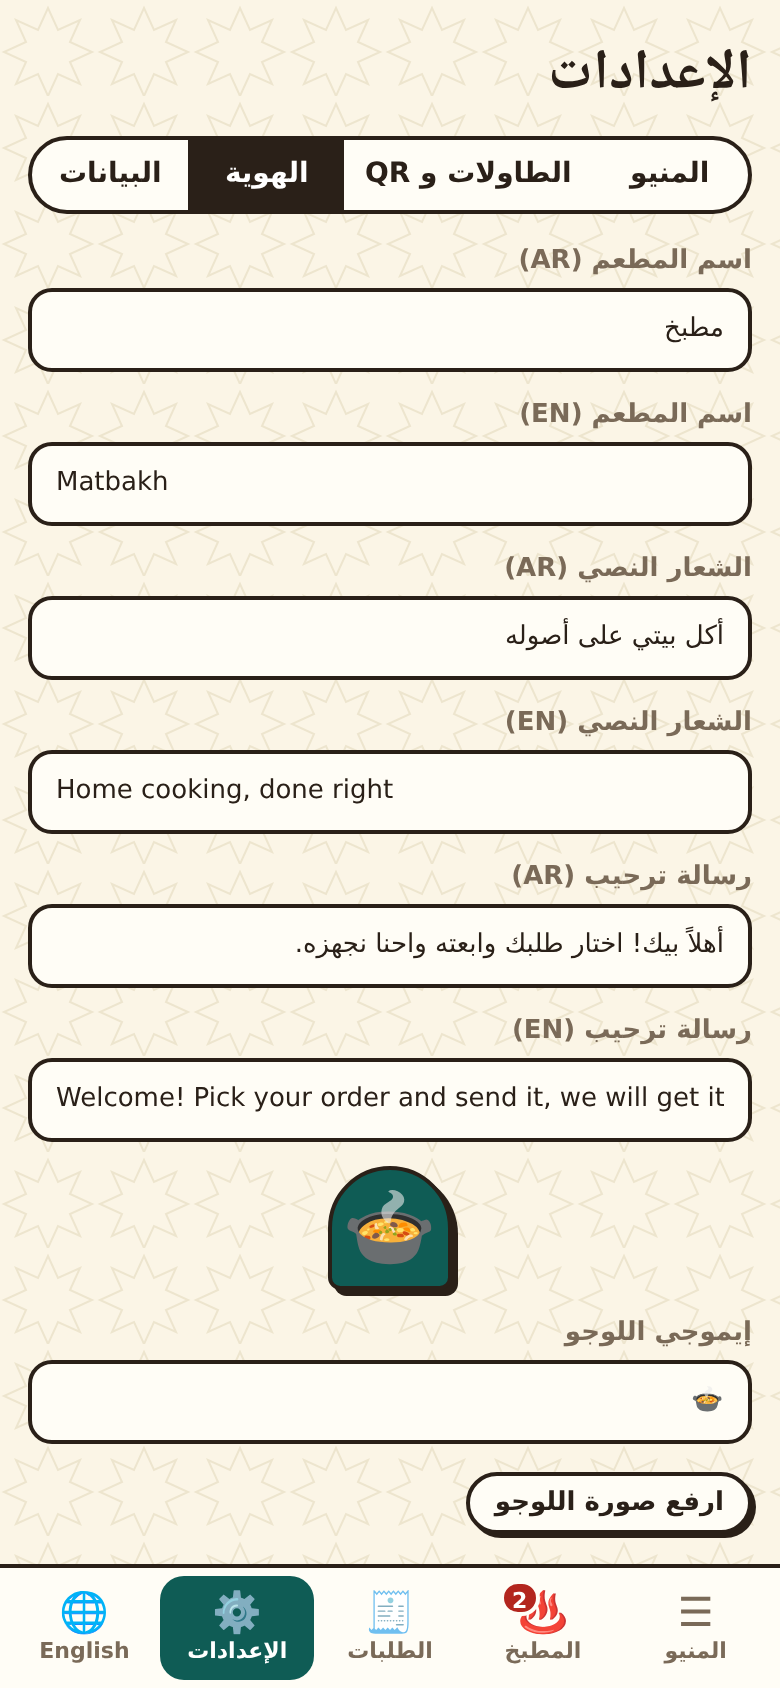
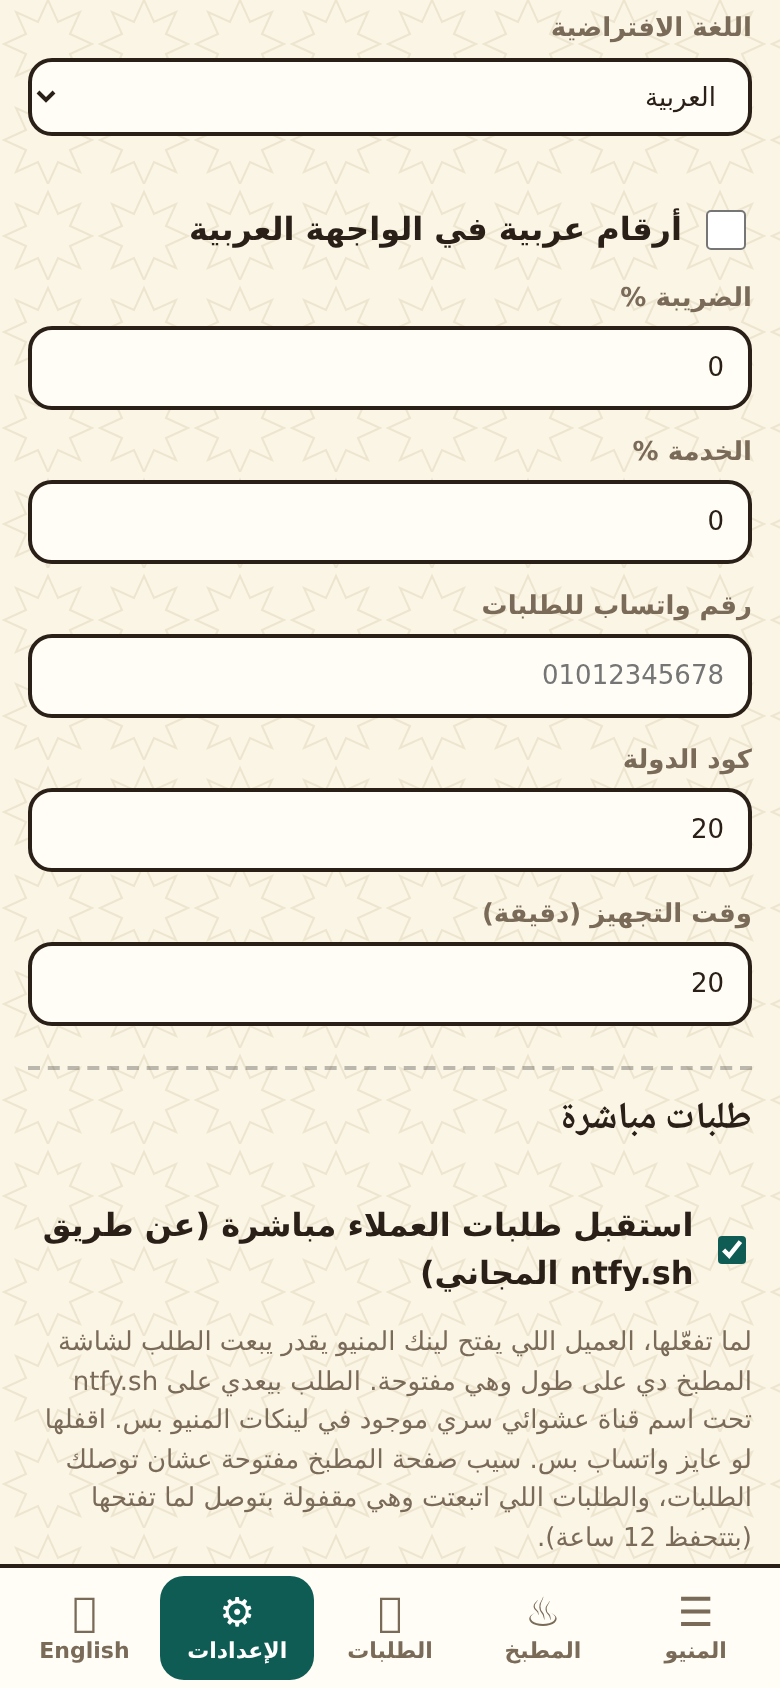
Live customer orders through ntfy.sh (optional, private topic), kitchen subscription, live e2e test, README

diff --git a/js/app.js b/js/app.js
@@ -202,6 +202,27 @@
       });
     } catch (e) { /* audio blocked */ }
   }
+  /* live orders from customers' phones through ntfy.sh (optional, owner device only) */
+  let es = null, esTopic = '', liveOk = false;
+  function liveIngest(text) {
+    try {
+      const d = C.decodeOrder(text);
+      if (d.origin && S.orders.some((o) => o.origin === d.origin)) return;
+      const o = Object.assign(d, { id: C.uid('o'), no: 0, status: 'new', updatedAt: Date.now() });
+      addOwnerOrder(o); beep(); toast(t('liveReceived')); applyChrome(); render(true);
+    } catch (e) { /* not an order */ }
+  }
+  function liveSync() {
+    const topic = guest ? '' : (S.brand.liveTopic || '');
+    if (topic === esTopic) return;
+    if (es) { es.close(); es = null; }
+    esTopic = topic; liveOk = false;
+    if (!topic || typeof EventSource === 'undefined') return;
+    es = new EventSource(C.liveUrl(topic, '/sse?since=12h'));
+    es.onopen = () => { liveOk = true; };
+    es.onerror = () => { liveOk = false; };
+    es.onmessage = (m) => { try { const d = JSON.parse(m.data); if (d.event === 'message' && d.message) liveIngest(d.message); } catch (e) { /* ignore */ } };
+  }
   window.addEventListener('storage', (e) => {
     if (guest || e.key !== KEY) return;
     const before = S.orders.filter((o) => o.status === 'new').length;
@@ -322,6 +343,21 @@
     const form2 = () => ({ type: f.type, table: C.str(f.table, 6), name: C.str(f.name, 40), phone: C.str(f.phone, 20), note: C.str(f.note, 200) });
     const actions = h('div', { class: 'actions' });
     if (guest) {
+      if (brand().liveTopic) actions.append(btn('♨ ' + t('sendLive'), async (ev) => {
+        const e = validate(); if (e) { err.textContent = e; return; }
+        const o = buildOrder(form2()); o.no = 0; o.createdAt = Date.now();
+        const text = C.orderText(o, brand(), lang(), brand().arabicDigits);
+        const num = C.normalizePhone(brand().whatsapp, brand().countryCode);
+        err.textContent = ''; ev.currentTarget.disabled = true;
+        try {
+          const code = C.encodeOrder(o);
+          if (code.length > 3800) throw new Error('too big');
+          const r = await fetch(C.liveUrl(brand().liveTopic), { method: 'POST', body: code });
+          if (!r.ok) throw new Error('http ' + r.status);
+        } catch (x) { err.textContent = t('liveFailed'); ev.currentTarget.disabled = false; return; }
+        lastOrder = { order: o, text, wa: num ? C.waLink(num, text) : '', live: true };
+        cart = []; saveCart(); go('done');
+      }, 'primary wide'));
       actions.append(btn('💬 ' + t('sendWhatsApp'), () => {
         const e = validate(); if (e) { err.textContent = e; return; }
         const num = C.normalizePhone(brand().whatsapp, brand().countryCode);
@@ -348,15 +384,16 @@
     const wrap = h('div', { class: 'done' });
     if (!lastOrder) { go('menu'); return wrap; }
     const o = lastOrder.order;
-    wrap.append(h('div', { class: 'stamp' }, '✓'), h('h1', null, guest ? t('orderSent') : t('orderSavedKitchen')));
+    wrap.append(h('div', { class: 'stamp' }, '✓'), h('h1', null, guest ? (lastOrder.live ? t('liveSent') : t('orderSent')) : t('orderSavedKitchen')));
     if (!guest) wrap.append(h('p', { class: 'bigno' }, t('orderNo') + ' #' + nf(o.no)));
-    wrap.append(h('p', { class: 'muted' }, guest ? t('waOpened') : (o.type === 'table' ? t('table') + ' ' + nf(o.table) : t('pickup') + ' · ' + nf(brand().pickupMinutes) + ' ' + t('min'))));
+    wrap.append(h('p', { class: 'muted' }, guest ? (lastOrder.live ? t('liveNote') : t('waOpened')) : (o.type === 'table' ? t('table') + ' ' + nf(o.table) : t('pickup') + ' · ' + nf(brand().pickupMinutes) + ' ' + t('min'))));
     wrap.append(h('div', { class: 'receipt-mini' }, o.lines.map((l) => h('div', null, h('span', null, nf(l.qty) + ' × ' + C.lineName(l, lang())), h('span', null, money(l.price * l.qty)))), h('div', { class: 'grand' }, h('span', null, t('total')), h('span', null, money(o.totals.total)))));
     const acts = h('div', { class: 'actions' });
     if (guest) {
-      acts.append(btn('💬 ' + t('sendWhatsApp'), () => window.open(lastOrder.wa, '_blank', 'noopener'), 'primary'),
+      if (lastOrder.wa) acts.append(btn('💬 ' + t('sendWhatsApp'), () => window.open(lastOrder.wa, '_blank', 'noopener'), lastOrder.live ? 'ghost' : 'primary'));
+      acts.append(
         btn(t('copyText'), () => { (navigator.clipboard ? navigator.clipboard.writeText(lastOrder.text) : Promise.reject()).then(() => toast(t('copied')), () => toast(lastOrder.text)); }, 'ghost'));
-      wrap.append(h('pre', { class: 'wa-text' }, lastOrder.text));
+      if (!lastOrder.live) wrap.append(h('pre', { class: 'wa-text' }, lastOrder.text));
     } else {
       const ph = C.normalizePhone(o.phone, brand().countryCode);
       if (ph) acts.append(btn('💬 ' + t('whatsappCustomer'), () => window.open(C.waLink(ph, C.confirmText(o, brand(), lang())), '_blank', 'noopener'), 'ghost'));
@@ -418,6 +455,7 @@
       h('h2', null, t(k), h('b', null, nf(by(st).length))),
       by(st).length ? by(st).map(ticket) : h('p', { class: 'k-none' }, t('none'))))));
     wrap.append(h('p', { class: 'hint' }, t('sync')));
+    if (S.brand.liveTopic) wrap.append(h('p', { class: 'hint', 'data-live': liveOk ? 'on' : 'down' }, (liveOk ? '● ' + t('liveStatusOn') : '○ ' + t('liveStatusDown'))));
     return wrap;
   }
 
@@ -618,6 +656,10 @@
         fld(t('whatsapp'), h('input', { inputmode: 'tel', value: b.whatsapp, placeholder: '01012345678', maxlength: 20, onchange: (e) => { b.whatsapp = C.str(e.target.value, 20); live(); } })),
         fld(t('countryCode'), h('input', { inputmode: 'numeric', value: b.countryCode, maxlength: 5, onchange: (e) => { b.countryCode = C.str(e.target.value, 5).replace(/\D/g, '') || '20'; live(); } }))),
       fld(t('pickupMinutes'), h('input', { inputmode: 'numeric', value: b.pickupMinutes, onchange: (e) => { b.pickupMinutes = Math.round(C.num(e.target.value, 0, 240, 20)); live(); } }))));
+    pane.append(h('div', { class: 'livebox' }, h('h3', null, t('liveTitle')),
+      h('label', { class: 'chk' }, h('input', { type: 'checkbox', checked: !!b.liveTopic, onchange: (e) => { b.liveTopic = e.target.checked ? C.newTopic() : ''; live(); liveSync(); render(true); } }), t('liveOn')),
+      h('p', { class: 'hint' }, t('liveHelp')),
+      b.liveTopic ? h('p', { class: 'hint' }, t('liveShareAgain')) : null));
   }
 
   function studioData(pane) {
@@ -677,5 +719,6 @@
   document.addEventListener('keydown', (e) => { if (e.key === 'Escape') { const d = document.querySelector('dialog[open]'); if (d) d.querySelector('.x').click(); } });
   window.__mb = { get state() { return S; }, get guest() { return guest; } }; // read-only debug handle used by the browser tests
   onRoute();
+  liveSync();
   if ('serviceWorker' in navigator && location.protocol === 'https:') navigator.serviceWorker.register('sw.js').catch(() => {});
 })();

diff --git a/tests/live.js b/tests/live.js
@@ -1,0 +1,52 @@
+/* Live relay check: owner turns on live orders, a customer phone sends an order, the kitchen receives it.
+   Usage: node tests/live.js [baseUrl]. Needs internet (ntfy.sh) and puppeteer-core. */
+const path = require('path');
+const puppeteer = require(process.env.PUPPETEER_PATH || 'puppeteer-core');
+const serve = require('./serve.js');
+const sleep = (ms) => new Promise((r) => setTimeout(r, ms));
+(async () => {
+  let srv, base = process.argv[2];
+  if (!base) { srv = await serve(path.join(__dirname, '..')); base = 'http://localhost:' + srv.address().port + '/'; }
+  if (!base.endsWith('/')) base += '/';
+  const browser = await puppeteer.launch({ executablePath: process.env.CHROME || '/usr/bin/google-chrome', args: ['--no-sandbox'], headless: 'new' });
+  let bad = 0; const ok = (c, n) => { console.log((c ? '  ok   ' : '  FAIL ') + n); if (!c) bad++; };
+  const errors = [];
+  const owner = await (await browser.createBrowserContext()).newPage(); await owner.setViewport({ width: 390, height: 844 });
+  owner.on('pageerror', (e) => errors.push(e.message));
+  await owner.evaluateOnNewDocument(() => { window.open = () => null; });
+  await owner.goto(base + '#/studio'); await sleep(500);
+  await owner.evaluate(() => { [...document.querySelectorAll('button,[role=tab]')].find((b) => /Brand|الهوية/.test(b.textContent)).click(); });
+  await sleep(300);
+  await owner.evaluate(() => { const c = [...document.querySelectorAll('label.chk input')].pop(); c.click(); });
+  await sleep(500);
+  const topic = await owner.evaluate(() => window.__mb.state.brand.liveTopic);
+  ok(/^mb[a-z0-9]{16,}$/.test(topic), 'owner enabled live orders, private topic created');
+  await owner.evaluate(() => { [...document.querySelectorAll('button,[role=tab]')].find((b) => /Tables|الطاولات/.test(b.textContent)).click(); });
+  await sleep(500);
+  const link = await owner.evaluate(() => [...document.querySelectorAll('input[readonly]')].map((i) => i.value).find((v) => v.includes('#')) || '');
+  ok(link.includes('#'), 'shared link available');
+  await owner.goto(base + '#/kitchen'); await sleep(1500);
+  const live = await owner.$eval('[data-live]', (e) => e.dataset.live).catch(() => 'none');
+  ok(live === 'on', 'kitchen shows live connection (' + live + ')');
+  const guest = await (await browser.createBrowserContext()).newPage(); await guest.setViewport({ width: 390, height: 844 });
+  guest.on('pageerror', (e) => errors.push(e.message));
+  await guest.goto(link); await sleep(1200);
+  await guest.evaluate(() => document.querySelector('.add').click()); await sleep(200);
+  await guest.evaluate(() => [...document.querySelectorAll('.cartbar button, .cartbar a, a[href*="cart"], button')].find((b) => /View order|شوف|عرض الطلب|الطلب/.test(b.textContent)).click()); await sleep(500);
+  await guest.evaluate(() => { [...document.querySelectorAll('.form input')].forEach((i) => { i.value = i.getAttribute('inputmode') === 'tel' ? '01012345678' : i.getAttribute('inputmode') === 'numeric' ? '7' : 'Live Test'; i.dispatchEvent(new Event('input')); }); });
+  const hasBtn = await guest.evaluate(() => [...document.querySelectorAll('button')].some((b) => /Send to kitchen now|ابعت للمطبخ دلوقتي/.test(b.textContent)));
+  ok(hasBtn, 'customer sees the live send button');
+  await guest.evaluate(() => [...document.querySelectorAll('button')].find((b) => /Send to kitchen now|ابعت للمطبخ دلوقتي/.test(b.textContent)).click());
+  await sleep(2500);
+  const done = await guest.evaluate(() => document.querySelector('.done h1') && document.querySelector('.done h1').textContent);
+  ok(/reached the kitchen|وصل شاشة المطبخ/.test(done || ''), 'customer sees confirmation: ' + done);
+  let got = false;
+  for (let i = 0; i < 12 && !got; i++) { await sleep(500); got = await owner.evaluate(() => window.__mb.state.orders.some((o) => o.name === 'Live Test')); }
+  if (!got) console.log(JSON.stringify(await owner.evaluate(() => ({o: window.__mb.state.orders.map((o) => o.name), t: window.__mb.state.brand.liveTopic, hash: location.hash})))); ok(got, 'kitchen received the order live');
+  await owner.reload(); await sleep(2500);
+  const n = await owner.evaluate(() => window.__mb.state.orders.filter((o) => o.name === 'Live Test').length);
+  ok(n === 1, 'reload does not duplicate the order (' + n + ')');
+  ok(errors.length === 0, 'no page errors ' + errors.join('|'));
+  await browser.close(); if (srv) srv.close();
+  console.log(bad ? bad + ' FAILED' : 'LIVE PASS'); process.exit(bad ? 1 : 0);
+})();

diff --git a/js/i18n.js b/js/i18n.js
@@ -32,6 +32,8 @@
       confirmTemplate: 'Replace your current menu and branding with this template? Orders are kept.', resetAll: 'Erase everything', confirmReset: 'Erase menu, branding and all orders on this device?', importOk: 'Imported', importBad: 'That file is not a valid Matbakh export.',
       dataNote: 'Everything is stored only in this browser. Export a backup now and then.', how1: 'Shared menu links carry your menu inside the link, so customers see it without any server.',
       customerTotal: 'Customer total', printed: 'Receipt', thanks: 'Thank you!', powered: 'Made with Matbakh', cartCleared: 'Cart cleared', clear: 'Clear',
+      liveTitle: 'Live orders', liveOn: 'Receive customer orders live (uses the free ntfy.sh relay)', liveHelp: 'When on, a customer who opens your shared menu link can send the order straight to this kitchen screen while it is open. The order passes through ntfy.sh under a private random topic that only your shared links contain. Turn it off if you prefer WhatsApp only. Keep the kitchen page open to receive orders; orders sent while it was closed arrive when you reopen it (kept 12 hours).', liveShareAgain: 'Copy the menu link again after changing this: older links do not carry the live setting.',
+      sendLive: 'Send to kitchen now', liveSent: 'Your order reached the kitchen screen', liveFailed: 'Could not reach the kitchen right now. Send it on WhatsApp instead.', liveNote: 'Sent live. You can also send it on WhatsApp as a backup.', liveStatusOn: 'Live orders on', liveStatusDown: 'Live orders reconnecting', liveReceived: 'New live order',
       sync: 'Open Kitchen on a second tab or tablet on this device and it updates live. Other devices get orders through WhatsApp import.', min2: 'min',
     },
     ar: {
@@ -64,6 +66,8 @@
       confirmTemplate: 'تستبدل المنيو والهوية الحاليين بالقالب ده؟ الطلبات هتفضل.', resetAll: 'مسح كل حاجة', confirmReset: 'تمسح المنيو والهوية وكل الطلبات على الجهاز ده؟', importOk: 'تم الاستيراد', importBad: 'الملف ده مش تصدير صالح من مطبخ.',
       dataNote: 'كل حاجة بتتخزن في المتصفح ده بس. اعمل نسخة احتياطية من وقت للتاني.', how1: 'لينكات المنيو بتشيل المنيو جواها، فالعميل يشوفه من غير أي سيرفر.',
       customerTotal: 'إجمالي العميل', printed: 'إيصال', thanks: 'شكراً ليكم!', powered: 'صُنع بمطبخ', cartCleared: 'اتمسح الطلب', clear: 'مسح',
+      liveTitle: 'طلبات مباشرة', liveOn: 'استقبل طلبات العملاء مباشرة (عن طريق ntfy.sh المجاني)', liveHelp: 'لما تفعّلها، العميل اللي يفتح لينك المنيو يقدر يبعت الطلب لشاشة المطبخ دي على طول وهي مفتوحة. الطلب بيعدي على ntfy.sh تحت اسم قناة عشوائي سري موجود في لينكات المنيو بس. اقفلها لو عايز واتساب بس. سيب صفحة المطبخ مفتوحة عشان توصلك الطلبات، والطلبات اللي اتبعتت وهي مقفولة بتوصل لما تفتحها (بتتحفظ 12 ساعة).', liveShareAgain: 'انسخ لينك المنيو تاني بعد التغيير: اللينكات القديمة مش فيها إعداد الطلبات المباشرة.',
+      sendLive: 'ابعت للمطبخ دلوقتي', liveSent: 'طلبك وصل شاشة المطبخ', liveFailed: 'مقدرناش نوصل للمطبخ دلوقتي. ابعت الطلب على واتساب.', liveNote: 'اتبعت مباشرة. تقدر تبعته كمان على واتساب كنسخة احتياطية.', liveStatusOn: 'الطلبات المباشرة شغالة', liveStatusDown: 'بيعيد الاتصال', liveReceived: 'طلب مباشر جديد',
       sync: 'افتح المطبخ في تاب تاني أو تابلت على نفس الجهاز وهيتحدث لحظياً. الأجهزة التانية بتبعت الطلبات عن طريق واتساب.', min2: 'د',
     },
   };

diff --git a/js/core.js b/js/core.js
@@ -64,6 +64,14 @@
     if (d.startsWith('0') && cc) return cc + d.slice(1);
     return d;
   }
+  /* ---------- live relay (ntfy.sh, optional) ---------- */
+  const LIVE_HOST = 'https://ntfy.sh/';
+  function newTopic() {
+    const a = new Uint8Array(16); (typeof crypto !== 'undefined' ? crypto : require('crypto').webcrypto).getRandomValues(a);
+    return 'mb' + Array.from(a, (x) => (x % 36).toString(36)).join('');
+  }
+  function liveUrl(topic, suffix) { return LIVE_HOST + topic + (suffix || ''); }
+
   function waLink(phone, text) {
     return 'https://wa.me/' + phone + '?text=' + encodeURIComponent(text);
   }
@@ -129,6 +137,7 @@
       taxPct: num(b.taxPct, 0, 50, 0),
       servicePct: num(b.servicePct, 0, 50, 0),
       whatsapp: str(b.whatsapp, 20),
+      liveTopic: /^[a-z0-9]{12,40}$/.test(String(b.liveTopic || '')) ? String(b.liveTopic) : '',
       countryCode: str(b.countryCode, 5).replace(/\D/g, '') || '20',
       tables: Math.round(num(b.tables, 0, 200, 8)),
       pickupMinutes: Math.round(num(b.pickupMinutes, 0, 240, 20)),
@@ -332,7 +341,7 @@
   }
 
   return {
-    STATUS, NEXT, PREV, uid, str, num, bi, fmtMoney, fmtNumber, toArabicDigits, cartTotals, normalizePhone, waLink,
+    STATUS, NEXT, PREV, uid, str, num, bi, fmtMoney, fmtNumber, toArabicDigits, cartTotals, normalizePhone, waLink, newTopic, liveUrl,
     bytesToB64url, b64urlToBytes, packText, unpackText, sanitizeBrand, sanitizeConfig, sanitizeOrder, shareConfig,
     dayKey, nextOrderNo, encodeOrder, decodeOrder, orderText, readyText, confirmText, lineName, stats, ordersCsv, csvCell,
   };

diff --git a/css/style.css b/css/style.css
@@ -279,3 +279,4 @@ body:has(.kitchen) .tab.on { color: var(--at); background: var(--a); }
 @media (max-width: 420px) { .two { grid-template-columns: 1fr; } .hero h1 { font-size: 25px; } .arch { width: 80px; height: 100px; } .logo.lg { width: 62px; height: 62px; font-size: 38px; } .tpls { grid-template-columns: 1fr; } }
 @media (prefers-reduced-motion: reduce) { * { animation: none !important; transition: none !important; } }
 .menu { padding-bottom: 72px; }
+.livebox{margin-top:20px;padding-top:14px;border-top:2px dashed currentColor;border-color:rgba(0,0,0,.25)}.livebox h3{margin:0 0 8px}

diff --git a/README.md b/README.md
@@ -15,7 +15,9 @@ A small restaurant, cafe or bakery gets three things from one web page:
 
 1. **A QR table menu.** Print a QR code per table. Customers scan it and see your menu, in your colors, with your logo, in Arabic or English. The menu travels inside the link, so no server is needed.
 2. **A kitchen screen.** Orders show up as paper-style tickets in three columns: New, Preparing, Ready. Timers turn amber and red when an order waits too long. A bell rings on new orders.
-3. **Pickup and WhatsApp orders.** A customer builds an order and taps one button. WhatsApp opens with the full order already written, addressed to your number. Paste that message into the kitchen screen and it becomes a ticket.
+3. **Live orders, pickup and WhatsApp orders.** With **Live orders** switched on in Studio, a customer who opens your shared menu link sends the order straight to the kitchen screen. WhatsApp stays as the backup.
+
+   Without it: A customer builds an order and taps one button. WhatsApp opens with the full order already written, addressed to your number. Paste that message into the kitchen screen and it becomes a ticket.
 
 It is also **white-label**. Change the name, logo, colors, currency, language, tax, service charge and the whole menu in the Studio screen, then export it all as a JSON file and load it on another device. One codebase, many restaurants.
 
@@ -26,6 +28,7 @@ It is also **white-label**. Change the name, logo, colors, currency, language, t
 - Order numbers that restart each day
 - Kitchen board: New / Preparing / Ready, age timers, undo, cancel, sound, fullscreen, one-tap WhatsApp "your order is ready" to the customer
 - Live sync between tabs of the same browser (open the kitchen on a tablet, take orders on the counter)
+- **Live customer orders** (optional): a customer's phone sends the order to your open kitchen screen in a second or two, through the free ntfy.sh relay and a private random topic. Orders sent while the kitchen was closed arrive when you open it (kept 12 hours). Duplicates are ignored.
 - Import a WhatsApp order message into the kitchen (duplicates are ignored)
 - Orders page: today / all, sales, average order, top items, CSV export, printable receipts
 - Studio: menu editor, tables and QR sheet (printable), brand editor, export/import, three starter templates (Egyptian cafe, fast food, bakery)
@@ -58,6 +61,7 @@ Plain HTML, CSS and JavaScript. No framework, no build step, no backend.
 ```bash
 npm test            # 15 unit tests (Node 18+)
 npm i && npm run test:e2e   # real-browser click-through (needs Chrome; set CHROME=/path if not /usr/bin/google-chrome)
+npm run test:live           # owner + customer phone + kitchen through the real ntfy.sh relay (needs internet)
 ```
 
 The end-to-end test starts a local server, drives Chrome through the owner flow, a separate "customer phone" profile opening a shared link, WhatsApp import, cross-tab sync, export/import and error cases, and fails on any console error. It can also run against the live site: `node tests/e2e.js https://yousefkhames.github.io/matbakh/`.
@@ -65,7 +69,7 @@ The end-to-end test starts a local server, drives Chrome through the owner flow,
 ## Honest limits
 
 - **No server means no shared database.** Your menu and orders live in the browser of the device you use. Clear the browser data and they are gone, so export a backup from Studio > Data now and then.
-- **A customer's phone cannot write into your kitchen screen.** Customer orders reach you through WhatsApp. You paste the message into the kitchen screen to turn it into a ticket. Orders typed on the kitchen device itself, and tabs of the same browser, sync live.
+- **Live orders depend on a third-party relay.** They use the free public ntfy.sh service. The order (name, phone, items) passes through it under a random 18-character topic that only your shared links contain. Anyone who has your link can send you orders, so keep it to your own QR codes and rotate it by switching Live orders off and on. The kitchen page must be open to receive; if ntfy.sh is down, customers see a clear error and can use WhatsApp. Without Live orders on, customers' phones cannot write into your kitchen screen and orders reach you through WhatsApp.
 - **WhatsApp is a link, not an API.** The app opens `wa.me` with the text filled in. The customer still has to press send. There is no delivery or read confirmation.
 - **Shared menu links hold the whole menu.** The QR code gets denser as the menu grows. The demo menu (18 items) gives a link of about 1,900 characters. Around 40 items with long descriptions is the practical ceiling for one scannable QR code. The uploaded logo image is not included in shared links (the emoji or name is shown instead).
 - **No online payments, no stock counting, no staff accounts or permissions.** Anyone with the owner device can open the Studio.
